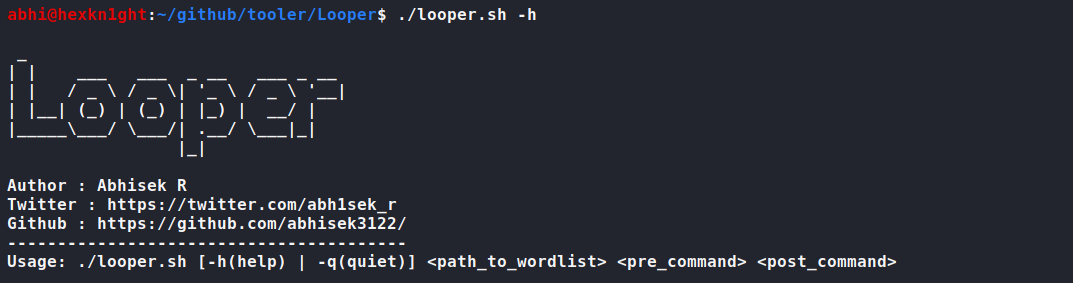
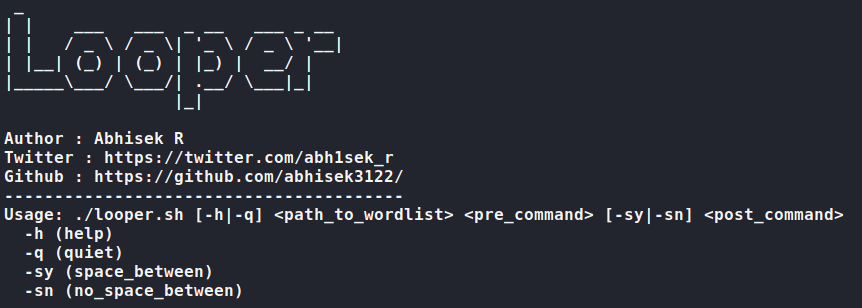
v1.1

Changed region(s): [[0.0, 0.0283, 0.5128, 0.5936], [0.0, 0.6219, 0.9954, 0.9894]]

diff --git a/README.md b/README.md
@@ -1,19 +1,46 @@
 # Looper
 <img src="photos/banner.png">
 
-### Just automate any command without writing any loops !
+### Just automate any command without writing loops !
 #### Installation
 ```
-$ git clone
+$ git clone https://github.com/abhisek3122/Looper.git
 $ chmod +x looper.sh
 ```
 #### Usage
 ```
-./looper.sh [-h(help) | -q(quiet)] <path_to_wordlist> <pre_command> <post_command>
+Usage: ./looper.sh [-h|-q] <path_to_wordlist> <pre_command> [-sy|-sn] <post_command>
+  -h (help) : Details of the tool
+  -q (quiet) : Banner will not be printed
+  -sy (space_between) : Space will be given in between command
+  -sn (no_space_between) : Space will not be given in between command
+
+Do not forget to specify option [-sy | -sn]
+```
+#### Disclaimer
+```
+Author and Contributors are not responsible for any malpractices done with this
+tool.
+```
+#### Working
+```
+Let's say you have a command that needs to be passed multiple times for
+multiple arguments, You will write a loop to put the wordlist in. But
+now just follow the looper syntax and save the time for writing the loop.
+
+Example 1:
+  Command: $anyTool -url example.com -A all
+  Looper: $./looper <path_to_wordlist> "anyTool -url" -sy "-A all"
+
+Example 2:
+  Command: $curl http://anywebsiteHere.com?q=example.com
+  Looper: $./looper <path_to_wordlist> "http://anywebsiteHere.com?q=" -sn
 ```
 #### Examples
 <img src="photos/helper.png">
-<img src="photos/withBanner.png">
+<img src="photos/cat.png">
+<img src="photos/withSpace.png">
+<img src="photos/withoutSpace.png">
 <img src="photos/withoutBanner.png">
 
 #### Contribution From
